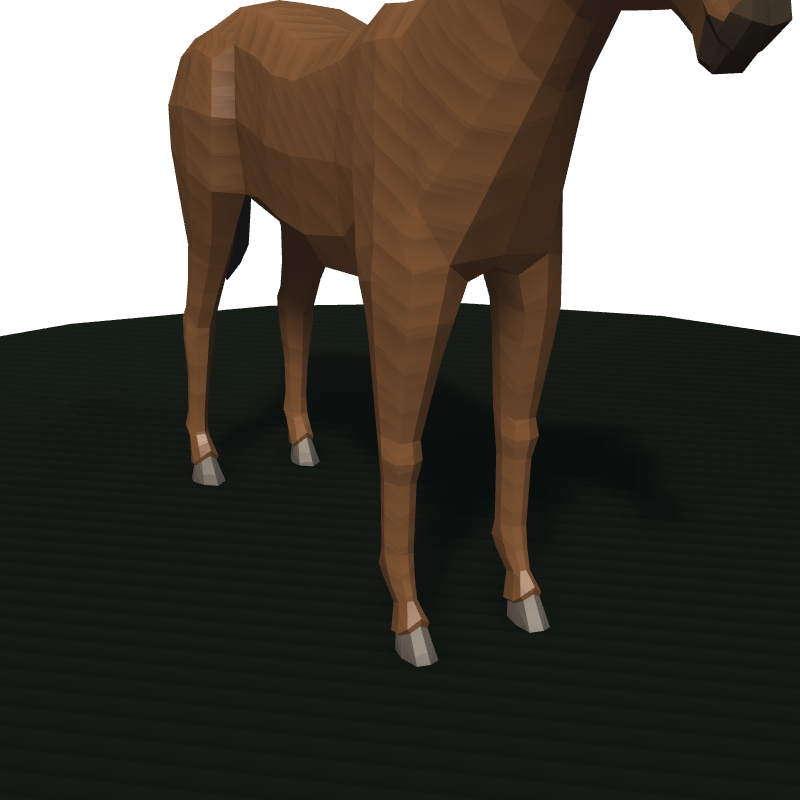
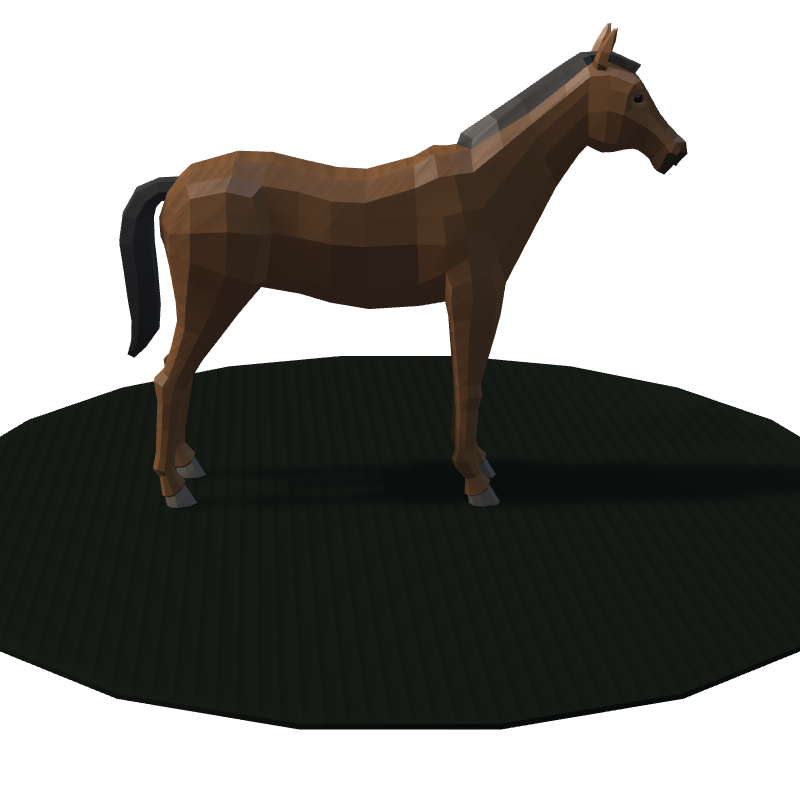
feat(garden): replace Kenney hut with KayKit, add Villa tier 4
Tier 1 (Hut) now uses home_small.glb instead of Kenney procedural walls.
All tiers are now KayKit GLB-based, giving a consistent art style.

Adds Tier 4 (Villa) as Kenney procedural — the clean modern look becomes
the premium unlock at 200 SP, positioned after the medieval Mansion.

Also replaces in-game screenshots with proper studio-lit 3D renders for
all upgrade shop thumbnails (home_small, home_medium, home_barracks, horse).

diff --git a/frontend/src/engine/buildings/HouseTierConfig.ts b/frontend/src/engine/buildings/HouseTierConfig.ts
@@ -6,9 +6,10 @@
  * defined here. Adding a new tier = one new entry in HOUSE_TIERS; all
  * consuming code derives from it automatically.
  *
- * Tier 1 (Hut):     Default for all members. Kenney procedural house.
+ * Tier 1 (Hut):     Default. KayKit home_small.glb.
  * Tier 2 (Cottage):  KayKit home_medium.glb. Unlocked with 50 SP.
  * Tier 3 (Mansion):  KayKit home_barracks.glb. Unlocked with 100 SP.
+ * Tier 4 (Villa):    Kenney procedural modern building. Unlocked with 200 SP.
  *
  * Coordinate system: corner-local space (0,0 = back-left corner of the
  * house floor). X increases rightward, Z increases toward the front door.
@@ -50,6 +51,9 @@ export const HOUSE_TIERS: readonly HouseTierDef[] = [
     bed: { x: 1.0, z: 0.7 },
     desk: { x: 2.2, z: 1.3, yaw: 180 },
     thumbnail: 'assets/buildings/kaykit/thumbnails/home_small.png',
+    exteriorGlb: 'assets/buildings/kaykit/home_small.glb',
+    exteriorScale: 2.0,
+    exteriorFootprint: { w: 1.8, d: 1.8 },
   },
   {
     tier: 2, name: 'Cottage', width: 4, depth: 4, doorIndex: 1, unlockCost: 50,
@@ -68,6 +72,12 @@ export const HOUSE_TIERS: readonly HouseTierDef[] = [
     exteriorGlb: 'assets/buildings/kaykit/home_barracks.glb',
     exteriorScale: 1.8,
     exteriorFootprint: { w: 3.0, d: 3.0 },
+  },
+  {
+    tier: 4, name: 'Villa', width: 5, depth: 5, doorIndex: 2, unlockCost: 200,
+    bed: { x: 1.5, z: 0.8 },
+    desk: { x: 3.4, z: 1.3, yaw: 180 },
+    thumbnail: 'assets/buildings/kaykit/thumbnails/home_small.png',  // placeholder until Villa screenshot
   },
 ]
 

diff --git a/multiplayer/src/sim/WorldLayout.ts b/multiplayer/src/sim/WorldLayout.ts
@@ -53,6 +53,7 @@ const BED_SURFACE_Y = 0.38
  *   Tier 1 (Hut):     3×3, door=1, bed=(1.0, 0.7), desk=(2.2, 1.3, 180)
  *   Tier 2 (Cottage):  4×4, door=1, bed=(1.0, 1.1), desk=(3.2, 1.3, 180)
  *   Tier 3 (Mansion):  5×5, door=2, bed=(1.5, 0.8), desk=(3.4, 1.3, 180)
+ *   Tier 4 (Villa):    5×5, door=2, bed=(1.5, 0.8), desk=(3.4, 1.3, 180)
  */
 const TIER_CONFIG: Record<number, {
   width: number; depth: number
@@ -62,6 +63,7 @@ const TIER_CONFIG: Record<number, {
   1: { width: 3, depth: 3, bed: { x: 1.0, z: 0.7 }, desk: { x: 2.2, z: 1.3, yaw: 180 } },
   2: { width: 4, depth: 4, bed: { x: 1.0, z: 1.1 }, desk: { x: 3.2, z: 1.3, yaw: 180 } },
   3: { width: 5, depth: 5, bed: { x: 1.5, z: 0.8 }, desk: { x: 3.4, z: 1.3, yaw: 180 } },
+  4: { width: 5, depth: 5, bed: { x: 1.5, z: 0.8 }, desk: { x: 3.4, z: 1.3, yaw: 180 } },
 }
 
 /** Centering offset derived from width/depth — no longer hardcoded. */